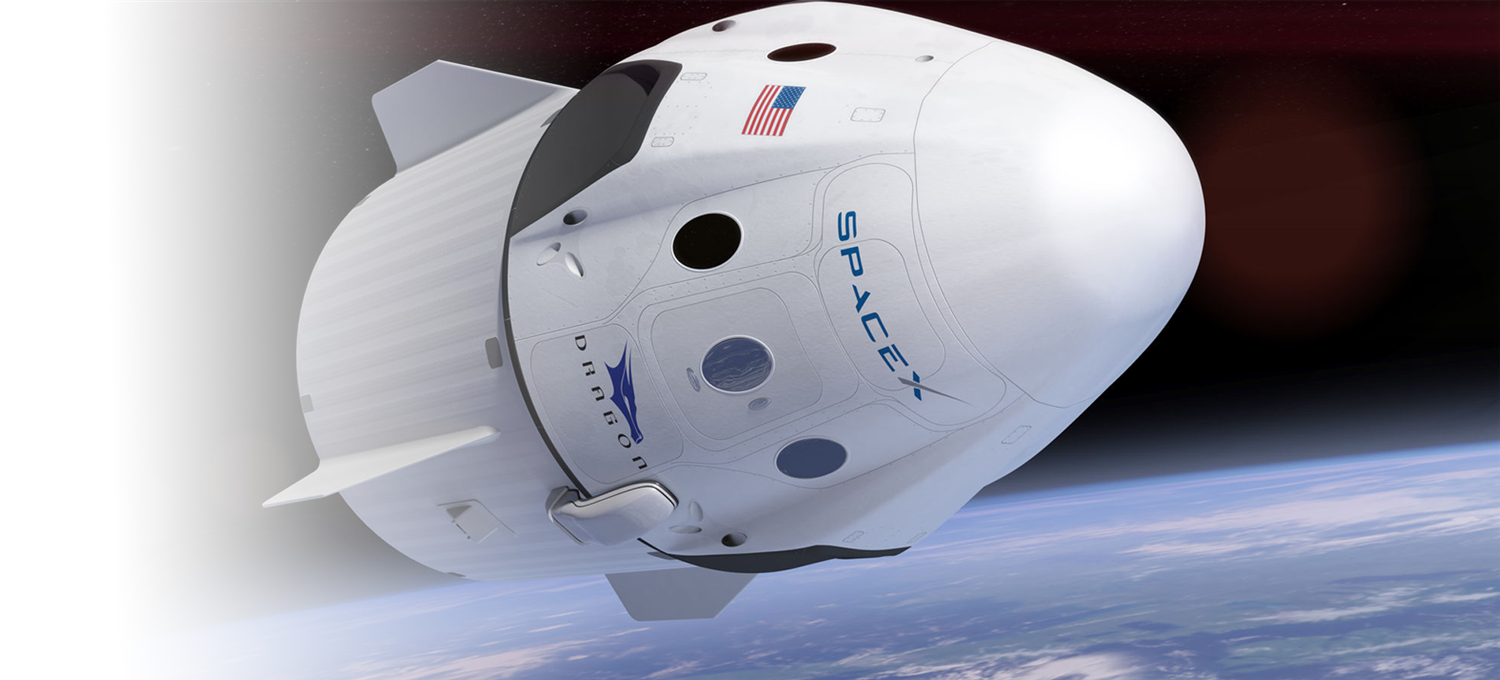
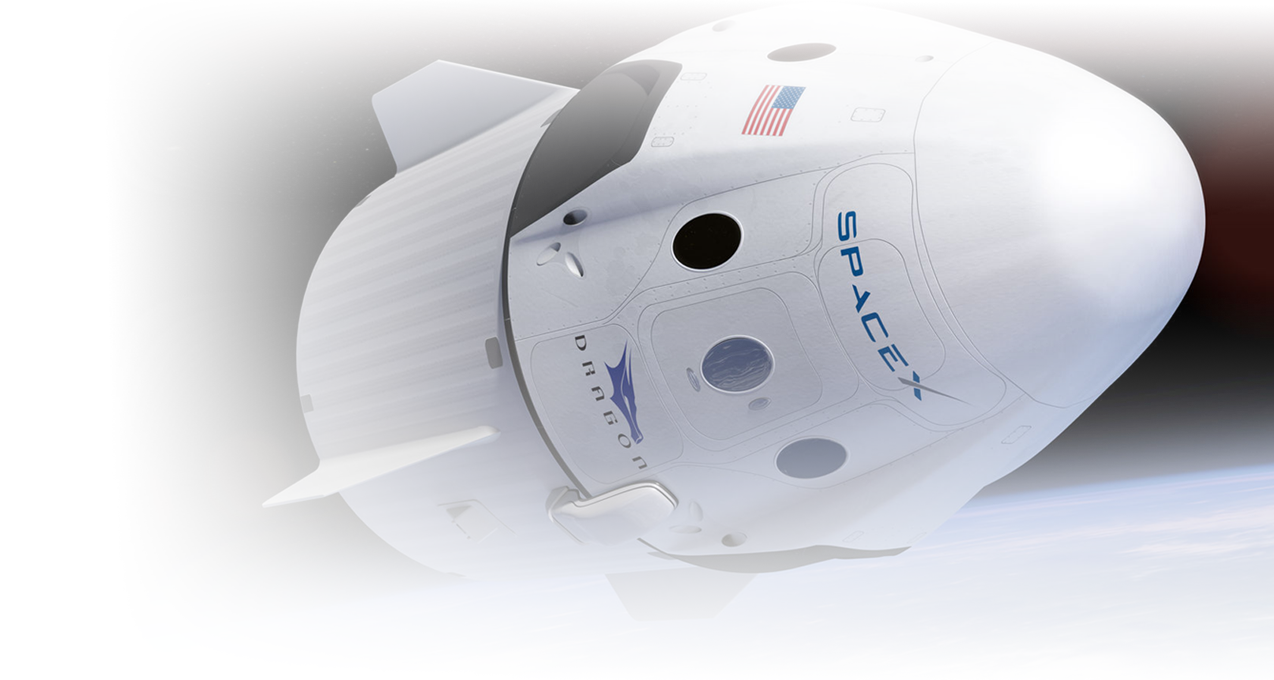
SpaceX Final Draft

diff --git a/space-x-v2/assets/css/style.css b/space-x-v2/assets/css/style.css
@@ -3,10 +3,13 @@
 
 
 .paragraph-header{
+  animation: 2s anim-lineUp ease-out;
+  animation-fill-mode: forwards;
   color: white;
   position: absolute;
   top: 30px;
   margin-left: 60px; 
+  text-shadow: 2px 2px 8px #000;
 }
 
 .paragraph-text{
@@ -39,7 +42,7 @@ font-family: 'Poppins', sans-serif;
 font-weight: 400;
 color: white
 }
-
+/*
 header nav ul li a{
   font-family: 'Poppins';
   font-size: 1.5rem;
@@ -49,6 +52,41 @@ header nav ul li a{
   flex-direction: row;
   justify-content: space-evenly;
 }
+*/
+
+nav {
+  max-width: 960px;
+  margin: 0 auto;
+  padding: 20px 0;
+}
+
+nav ul {
+  text-align: center;
+  
+  
+}
+
+nav ul li {
+  display: inline-block;
+}
+
+nav ul li a {
+  padding: 18px;
+  text-transform:uppercase;
+  color: white;
+  font-family: 'Poppins';
+  font-size: 18px;
+  text-decoration: none;
+  display: block;
+}
+
+nav ul li a:hover{
+  color: lightgrey;
+}
+
+
+
+
 
 #first-section-image {
   background: #000 center/cover url(../img/spacex-fade.png) no-repeat;
@@ -86,6 +124,8 @@ header nav ul li a{
 }
 
 .btn {
+  animation: 9s anim-lineUp ease-out;
+  animation-fill-mode: forwards;
   border: 2px solid white;
   background-color: 00FFFFFF;
   font-family: 'Poppins';
@@ -121,12 +161,15 @@ header nav ul li a{
   position: absolute;
   background-color: rgba(0,0,0,0.5);
   display: block;
+  margin-top: 100px;
   
 }
 
 .second-section-image{
   float: right;
 }
+
+
 
 #third-section{
   background-color: #000;
@@ -142,7 +185,7 @@ header nav ul li a{
  text-align: center;
  padding: 20px;
  padding-top: 300px;
- 
+ text-shadow: 2px 2px 8px #000;
 }
 
 #third-section h2{
@@ -152,6 +195,7 @@ header nav ul li a{
   left: 70px;
   display: block;
   padding-top: 30px;
+  text-shadow: 2px 2px 8px #000;
  }
 
  #third-section h3{
@@ -162,7 +206,7 @@ header nav ul li a{
   position: relative;
   text-align: center;
   display: block;
-  
+  text-shadow: 2px 2px 8px #000;
   
  }
 
@@ -172,7 +216,14 @@ header nav ul li a{
   left: 70px;
   padding-top: 20px;
   display: block;
-  
+  z-index: 1;
+  text-shadow: 2px 2px 8px #000;
+}
+
+#third-section img{
+  clear: both;
+  position: absolute;
+  right: 0;
 }
 
 .footer{
@@ -193,6 +244,8 @@ header nav ul li a{
 }
 
 #history h1{
+ animation: 2s anim-lineUp ease-out;
+ animation-fill-mode: forwards;
  color: white;
  font-size: 3rem;
  text-align: center;
@@ -201,11 +254,20 @@ header nav ul li a{
 }
 
 #history p{
+  animation: 2s anim-lineUp ease-out;
+  animation-fill-mode: forwards;
   width: 600px;
   position: relative;
   left: 70px;
   padding-top: 20px;
   display: block;
+  text-shadow: 2px 2px 8px #000;
+}
+
+#history img{
+  float: left;
+  position: absolute;
+  right: 0;
 }
 
 #recent-missions h1{
@@ -223,6 +285,8 @@ header nav ul li a{
 }
 
 #frequently-asked-questions h1{
+ animation: 2s anim-lineUp ease-out;
+ animation-fill-mode: forwards;
  color: white;
  font-size: 3rem;
  text-align: center;
@@ -247,6 +311,8 @@ header nav ul li a{
 }
 
 .faq-question {
+  animation: 2s anim-lineUp ease-out;
+  animation-fill-mode: forwards;
   padding: 20px 0;
   border-bottom: 1px solid #000;
 }
@@ -312,6 +378,7 @@ header nav ul li a{
     transform: translateY(0%);
   }
 }
+
 
 /* Content */
 

diff --git a/space-x-v2/history.html b/space-x-v2/history.html
@@ -16,18 +16,25 @@
     <div class="logo">
       <a href="index.html"><img src="assets/img/space-x-logo-white.png" width="300px"></a>
     </div>
+    
     <nav>
       <ul>
-        <li><a href="index.html">Home</a></li>
-        <li><a href="history.html">History</a></li>
-        <li><a href="faq.html">FAQ</a></li>
+        <li class="hover-underline-animation"><a href="index.html">Home</a></li>
+        <li class="hover-underline-animation"><a href="history.html">History</a></li>
+        <li class="hover-underline-animation"><a href="faq.html">FAQ</a></li>
       </ul>
     </nav>
+  
+
+
+
   </header>
 
   <main>
     <section id="history">
       <h1>History</h1>
+
+      <img src="assets/img/history-image-fade.png" height="600px">
 
       <p>SpaceX began developing the Dragon spacecraft in late 2004, making a public announcement in 2006 with a plan of entering service in 2009. Also in 2006, SpaceX won a contract to use the Dragon spacecraft for commercially supplied resupply services to the International Space Station for the American federal space agency, NASA.</p>
       <p>During its maiden flight in December 2010, Dragon became the first commercially built and operated spacecraft to be recovered successfully from orbit. On 25 May 2012, a cargo variant of Dragon became the first commercial spacecraft to successfully rendezvous with and attach to the International Space Station (ISS). SpaceX is contracted to deliver cargo to the ISS under NASA's Commercial Resupply Servicesprogram, and Dragon began regular cargo flights in October 2012. With the Dragon spacecraft and the Orbital ATK Cygnus, NASA seeks to increase its partnerships with domestic commercial aviation and aeronautics industry.</p>

diff --git a/space-x-v2/index.html b/space-x-v2/index.html
@@ -57,6 +57,7 @@
       <div class="third-section-text">
         <h1>Cargo</h1>
         <h3>Resupply the Space Station</h3>
+        <img src="assets/img/cargofade1.png">
         <h2>DELIVERY AND RETURN SERVICES</h2>
         <p>Dragon is the first commercial spacecraft to deliver cargo to the International Space Station and currently the only cargo spacecraft flying capable of returning significant amounts of cargo to Earth. Dragon accommodates pressurized cargo in the capsule as well as unpressurized cargo in its trunk.</p>
         
@@ -67,6 +68,7 @@
       <div class="third-section-text">
         <h1>Crew</h1>
         <h3>Crew Cabin</h3>
+        <img src="assets/img/crewfade1.png">
         <h2>PARTNERSHIP WITH NASA</h2>
         <p>Dragon was designed from the outset to fly humans to space. Under an agreement with NASA, SpaceX is making upgrades to Dragon to allow for crew carrying capability.</p>
         
@@ -81,6 +83,7 @@
       <div class="third-section-text">
         <h1>Dragon Lab</h1>
         <h3>A FREE-FLYING MICROGRAVITY LABORATORY</h3>
+        <img src="assets/img/dragon-lab-fade1.png">
         <h2>FACILITATING RESEARCH</h2>
         <p>DragonLab is a free-flying, unmanned platform designed for research and testing in a microgravity environment independent of the International Space Station.</p>
         
